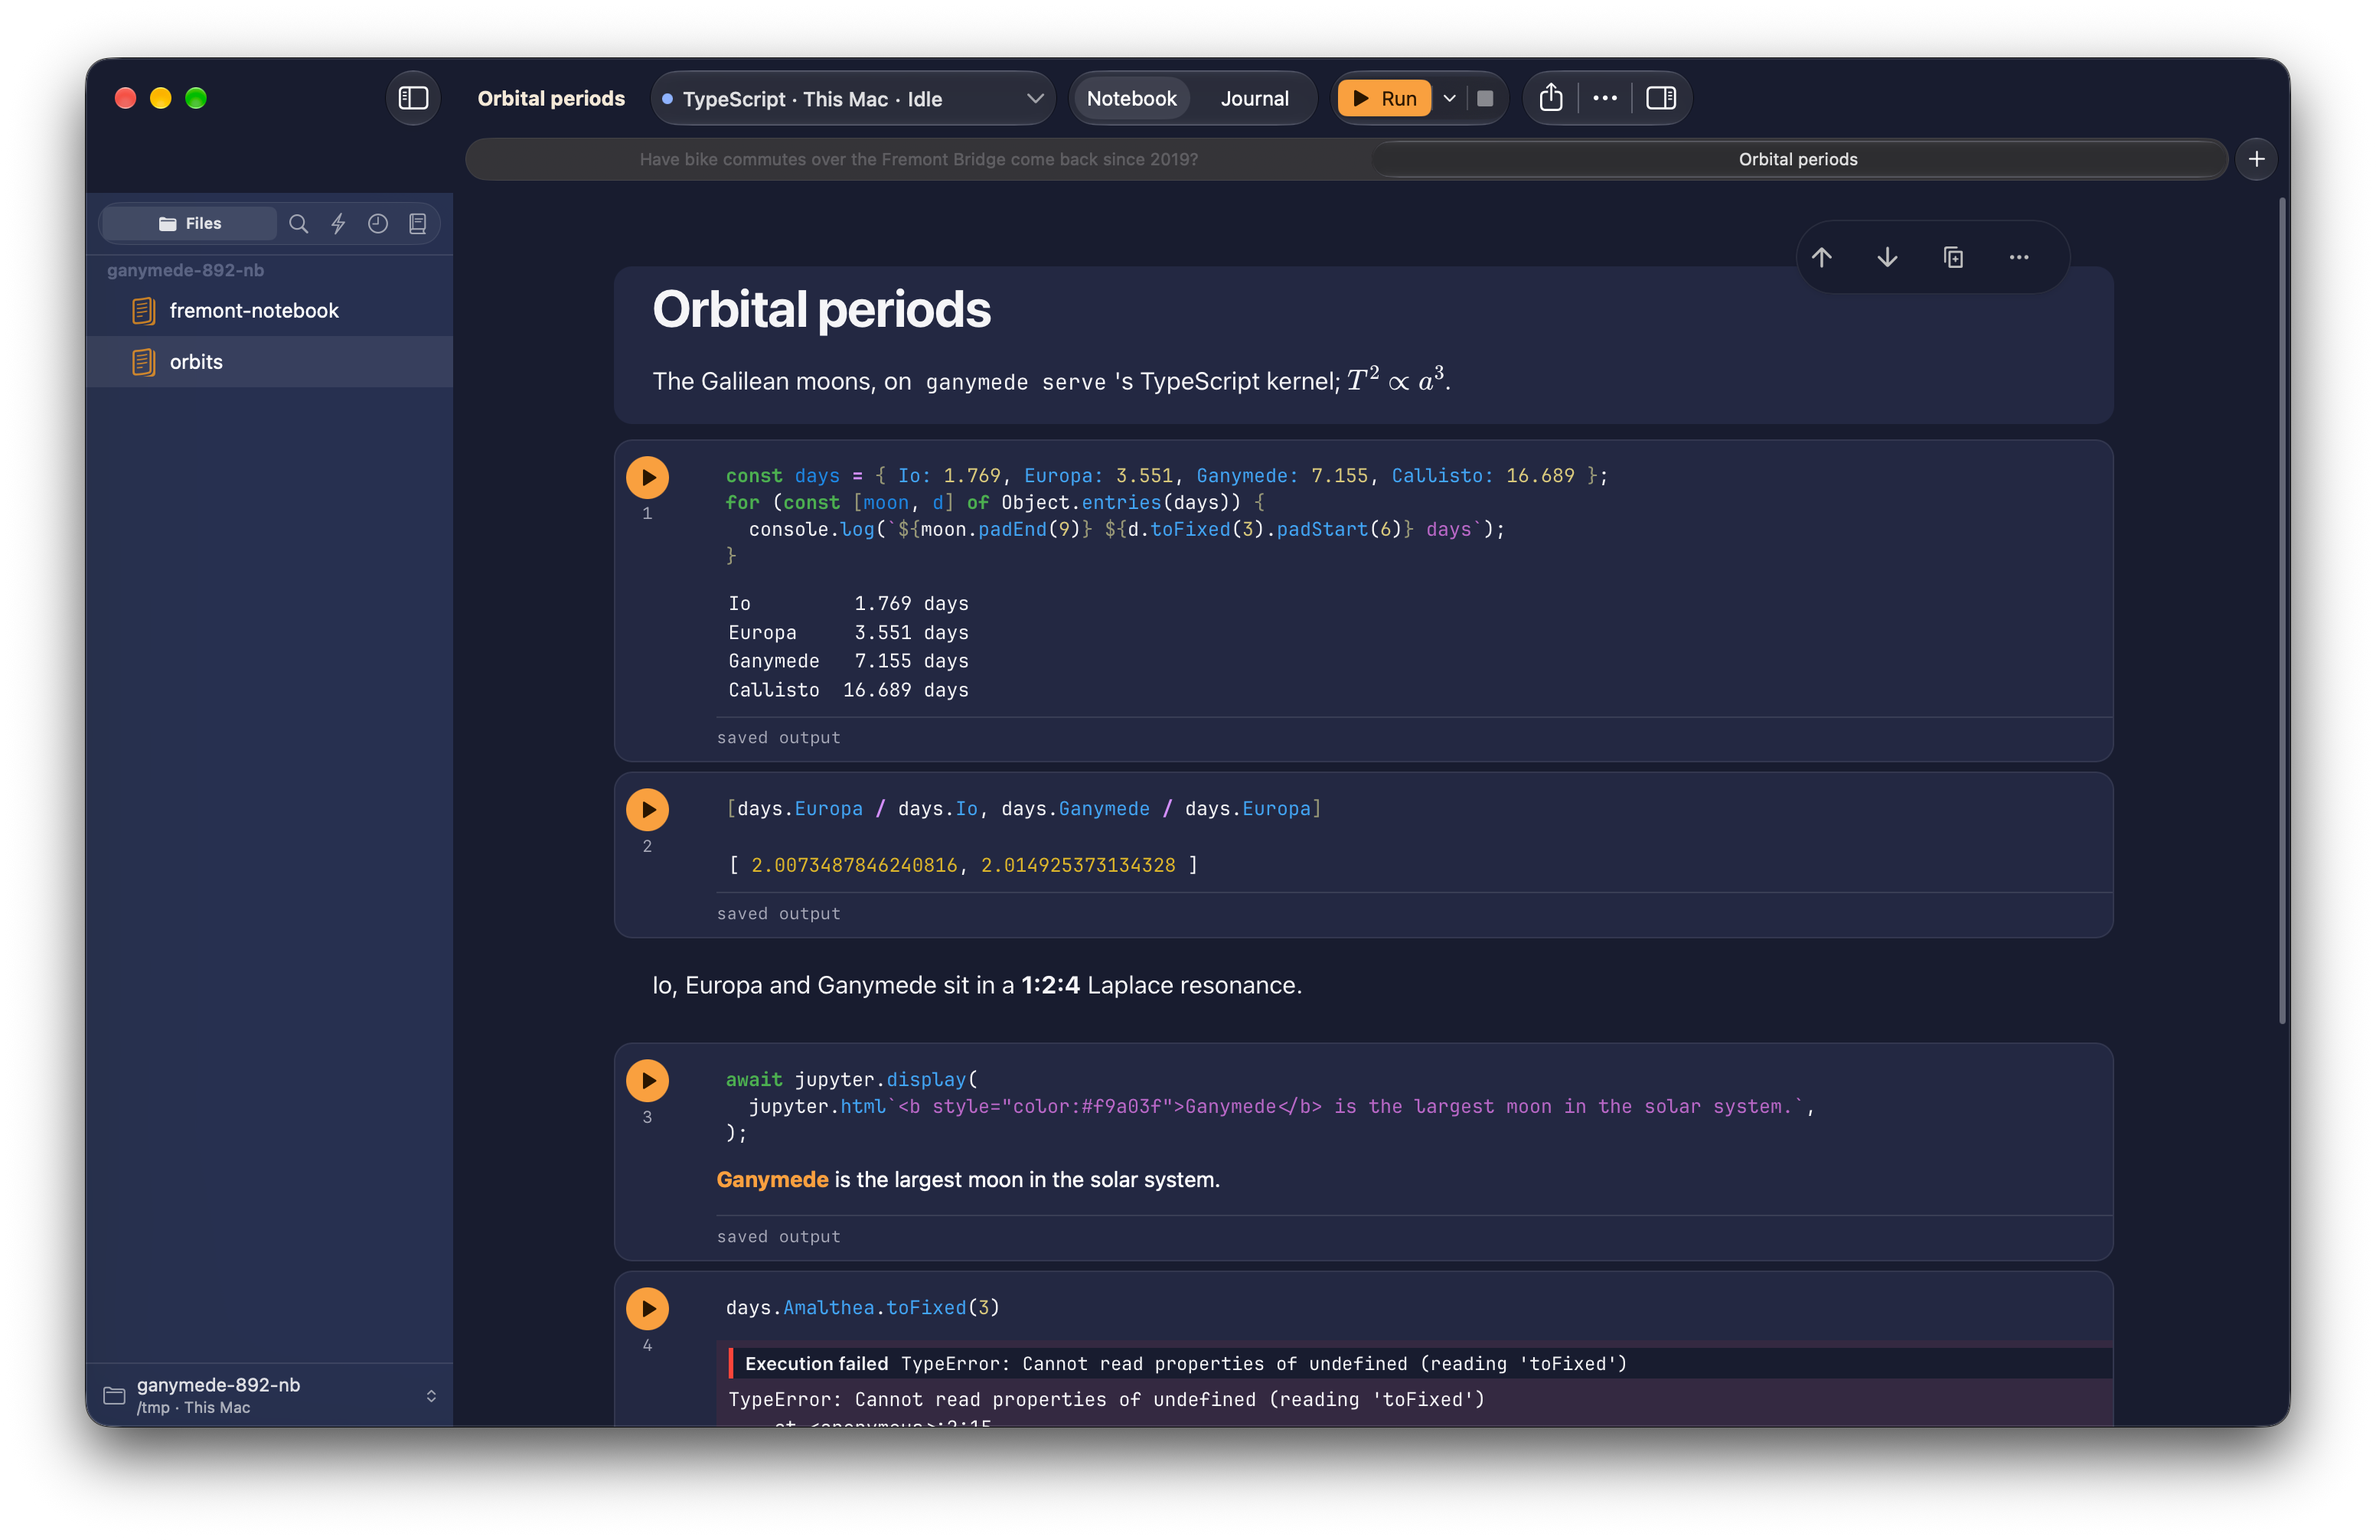
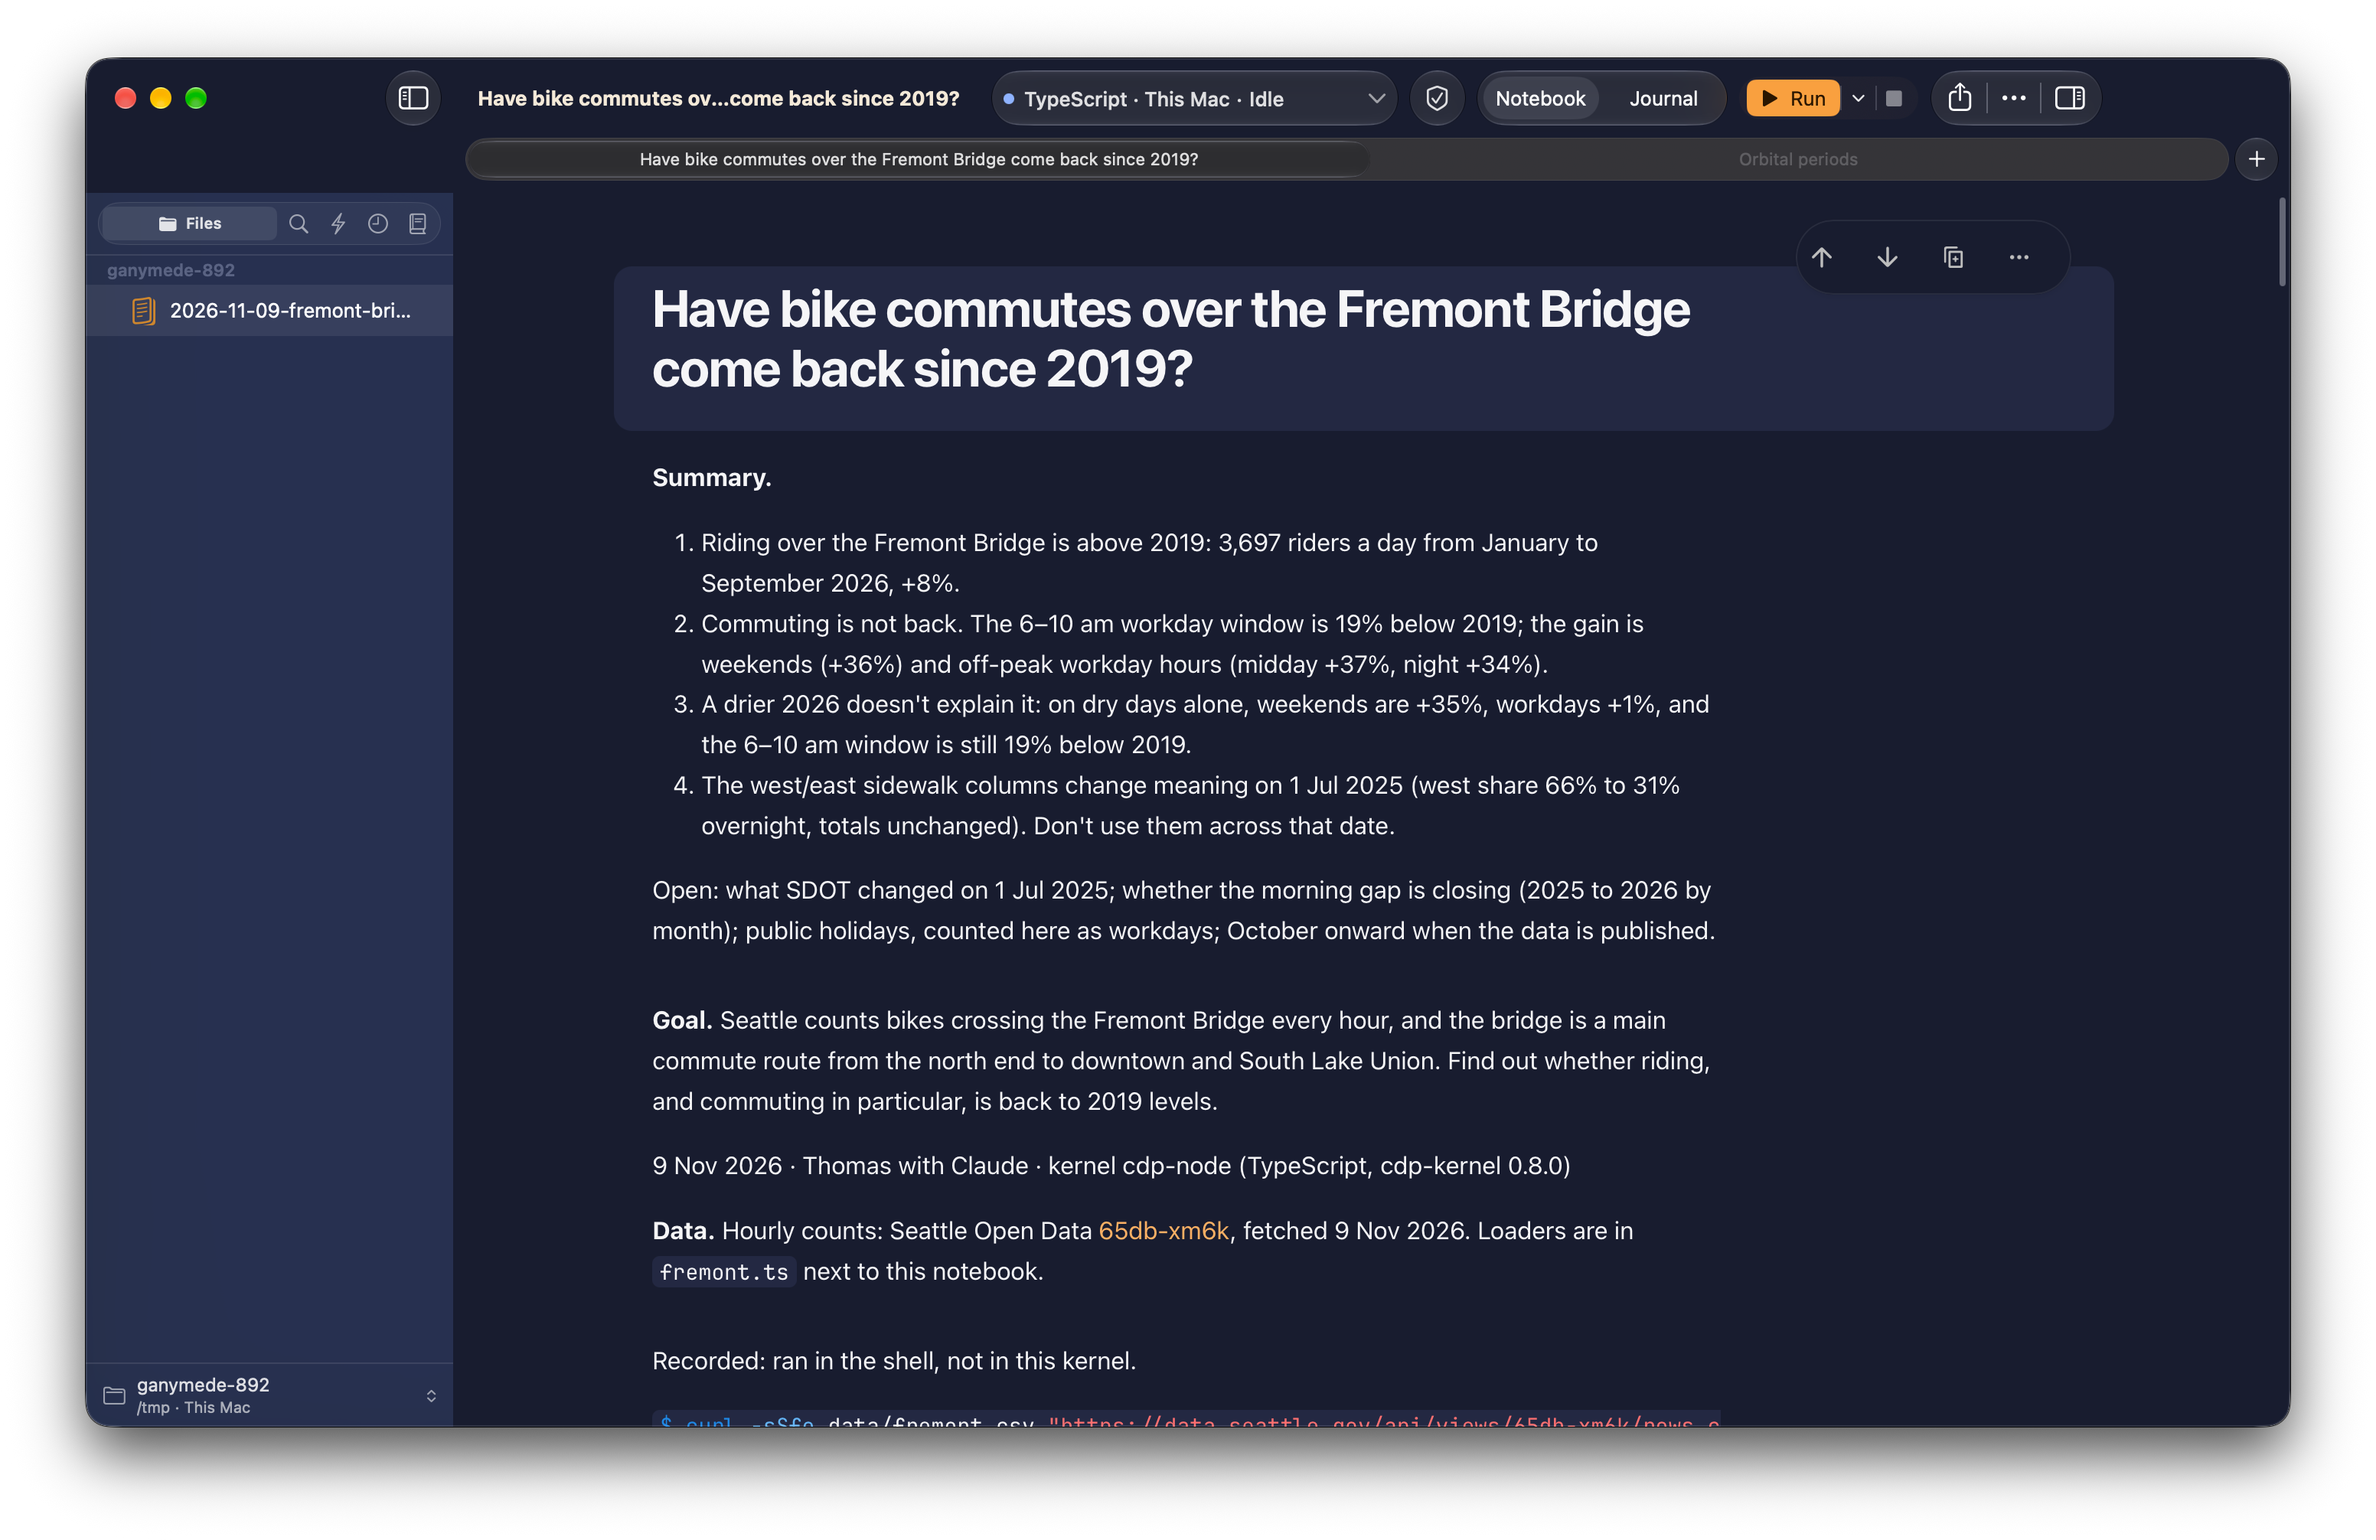
PR screenshots for #892, round 2 (not for main)

diff --git a/.github/pr-screenshots/892/README.md b/.github/pr-screenshots/892/README.md
@@ -1,47 +1,44 @@
-# Screenshots for #892 (Mac toolbar)
+# #892 toolbar: after the pre-push review
 
-All shots are `screencapture -x -l <window id>` of the Debug app built from
-this branch, at 1440×894, with the window's own id found by its PID. Dark
-is the launch argument `-AppleInterfaceStyle Dark`; light is
-`-NSRequiresAquaSystemAppearance YES`.
+Screenshots of the Debug build of `claude/project-thread-ic3hoj`, taken
+with `screencapture -x -l <window id>` (full window) and
+`screencapture -x -R 0,30,1440,64` (the toolbar band), on 27 Nov 2026.
+The window is 1440 × 894 points at origin (0, 30). Each launch is a build
+of this worktree's `apple/build/DerivedData/Build/Products/Debug/Ganymede.app`,
+started by full path with `open -n` and quit by its own PID only.
 
-## Files
+The notebook is `/tmp/ganymede-892/2026-11-09-fremont-bridge.ipynb`, a copy
+of `e2e/fixtures/journal/Fremont Bridge.ipynb` whose journal metadata
+(`metadata.ganymede` on the notebook and its cells) was removed in the
+copy, so it opens in Notebook view. It has no `metadata.title`, so its
+display title is its first level-1 heading —
+"Have bike commutes over the Fremont Bridge come back since 2019?" — while
+the sidebar and its tooltip keep the file's name.
 
 | File | What it shows |
 | --- | --- |
-| `before-dark.png` | Before the change, dark: the old toolbar — "fremont-bridge" as the title, a separate "Run Cell" split button, "Interrupt" in a capsule of its own, then Share, its arrow, and the Terminal Panel and inspector buttons each in a capsule, over a near-black band. Copied from `runs/ui892-toolbar-2/shots/`. |
-| `before-light.png` | The same in light. Copied from `runs/ui892-toolbar-2/shots/`. |
-| `after-dark.png` | After, dark, Notebook view: the title "Orbital periods" in cream, the kernel chip, Notebook \| Journal, one run capsule with an orange Run, its arrow and Interrupt, and one trailing capsule of Share, ⋯ and the inspector's toggle. The toolbar band is the page's navy (#181c2f) with no differently coloured strip above it. |
-| `after-light.png` | The same in light: the band is #fbf9f5 and the title is the page's heading colour, with the orange Run and the same three groups. |
-| `after-dark-kernel-popover.png` | A synthesized click that reached the kernel chip opened its status popover (file, kernel, Interrupt, Restart, Kernel Log, Runs On, Kernel). It is here because it is the only menu this environment could open; it is not the ⋯ menu the brief asks for. |
+| `before-dark.png` | The toolbar before this branch (from `runs/ui892-toolbar-2/shots/`), dark. "Run Cell", Interrupt and the trailing controls each in a capsule of their own, the title in the system's titlebar. |
+| `before-light.png` | The same, light. |
+| `after-dark.png` | The window now, dark (`-AppleInterfaceStyle Dark`): the title in the toolbar in `TitleText` (moon cream) on the `WindowBackground` band, kernel chip beside it, then a flexible gap, then Trust (the notebook isn't trusted), Notebook \| Journal, the Run capsule (orange Run, its menu's chevron, Interrupt), and Share \| ⋯ \| inspector, all ending at the right edge. Sidebar: the file's name. Title: the first heading. |
+| `after-light.png` | The same, light (`-NSRequiresAquaSystemAppearance YES`): near-black title on the cream band, Run filled `AccentFill` with `OnAccent` lettering. |
+| `toolbar-dark.png` | The dark toolbar band alone at 1440 wide, for the group order and the trailing edge. |
+| `toolbar-light.png` | The same, light. |
 
-The after shots were taken with `Orbits.ipynb` (a person's notebook, so it
-opens as a notebook) copied to `/tmp/ganymede-892-nb/orbits.ipynb`.
-`/tmp/ganymede-892/2026-11-09-fremont-bridge.ipynb` opens as a *journal*
-(`hasAgentCells`, #184), so a Notebook-view shot of that file needs the
-Notebook toggle pressed, which this environment cannot do (below).
+## The checks these prove
 
-## By-hand checks
-
-Input synthesis is not delivered to the app in this environment: `AXIsProcessTrusted()`
-is false, `osascript`/System Events is refused ("not allowed assistive
-access"), and the `CGEvent` clicks this run used landed only when the app
-happened to hold the pointer at that spot (the kernel popover). So the
-checks that need a click or a keystroke could not be made. Appearance and
-layout were checked by eye on the shots above.
-
-| Check | Result |
-| --- | --- |
-| Run button: orange `AccentFill` with `OnAccent` text/icon, one capsule with its arrow and Interrupt, in both appearances | **pass** (seen in both after shots) |
-| Run button: pressing it runs the selected cell | not done — input could not be delivered |
-| ⇧↩ runs the cell | not done — input could not be delivered |
-| Run menu: Run All, Run with Parameters…, Clear All Outputs, Restart Kernel, Restart & Run All; Restart Kernel disabled while idle | seen once when a click landed (same items, same enablement); no shot kept — the shot was overwritten |
-| Interrupt while busy: enabled, icon-only, its own segment of the run capsule | not done — no cell could be started (`after-dark-busy.png` is missing) |
-| ⌃` and View > Show/Hide Terminal Panel | not done — input could not be delivered; the View menu's item is unchanged in code |
-| ⋯ menu's Show/Hide Terminal Panel item, titled by the panel's state | not done — the ⋯ menu could not be opened; `ToolbarMenuTests` covers the two titles |
-| ⌥⌘0 shows/hides the inspector from its new place in the trailing capsule | not done — input could not be delivered |
-| Trailing capsule: Share, ⋯, inspector in that order, one capsule | **pass** (seen in both after shots) |
-| Title cream in dark, the heading colour in light | **pass** (`TitleText`) |
-| No black, grey or near-black strip above the toolbar (traffic-light band and the band's colour) | **pass** in both after shots |
-| No differently coloured strip below the toolbar | **fail, and not from this change**: once a window has opened a second notebook, the notebook tab bar (#247) draws its own grey band under the toolbar in dark mode and a light grey one in light. It is the tab bar's own surface, not the window's background, and #892 doesn't change it. |
-| Nothing shifts as state changes (Interrupt's enablement, Trust/Access, "Edited") | not done — no state could be driven; the toolbar's order is fixed in code, with no conditional `ToolbarItem`s |
+- **Group placement (#892 item 6).** The groups sit at the trailing edge;
+  the flexible space is between the kernel's chip and Notebook \| Journal.
+  Measured on `toolbar-dark.png`: the chip ends at 745 pt, the trailing
+  capsule at 1378 pt. A probe item added last also stopped ~56 pt short of
+  the window's edge, so that remaining margin is the toolbar's own, not
+  the layout's.
+- **One capsule for the run group (#892 item 5).** A 2x crop of the group
+  shows one capsule over the toolbar's surface around the orange Run, its
+  chevron and the grey Interrupt square — no second, darker rounded
+  rectangle nested inside it. The item hides the toolbar's shared
+  background (`.sharedBackgroundVisibility(.hidden)`), so the hand-drawn
+  capsule isn't drawn over the system's.
+- **The display title (#892 items 1 and 3).** The window's title, its tab
+  and its traffic-light title area read the first level-1 heading, not the
+  file's name; the sidebar row still reads
+  `2026-11-09-fremont-bri…`.
